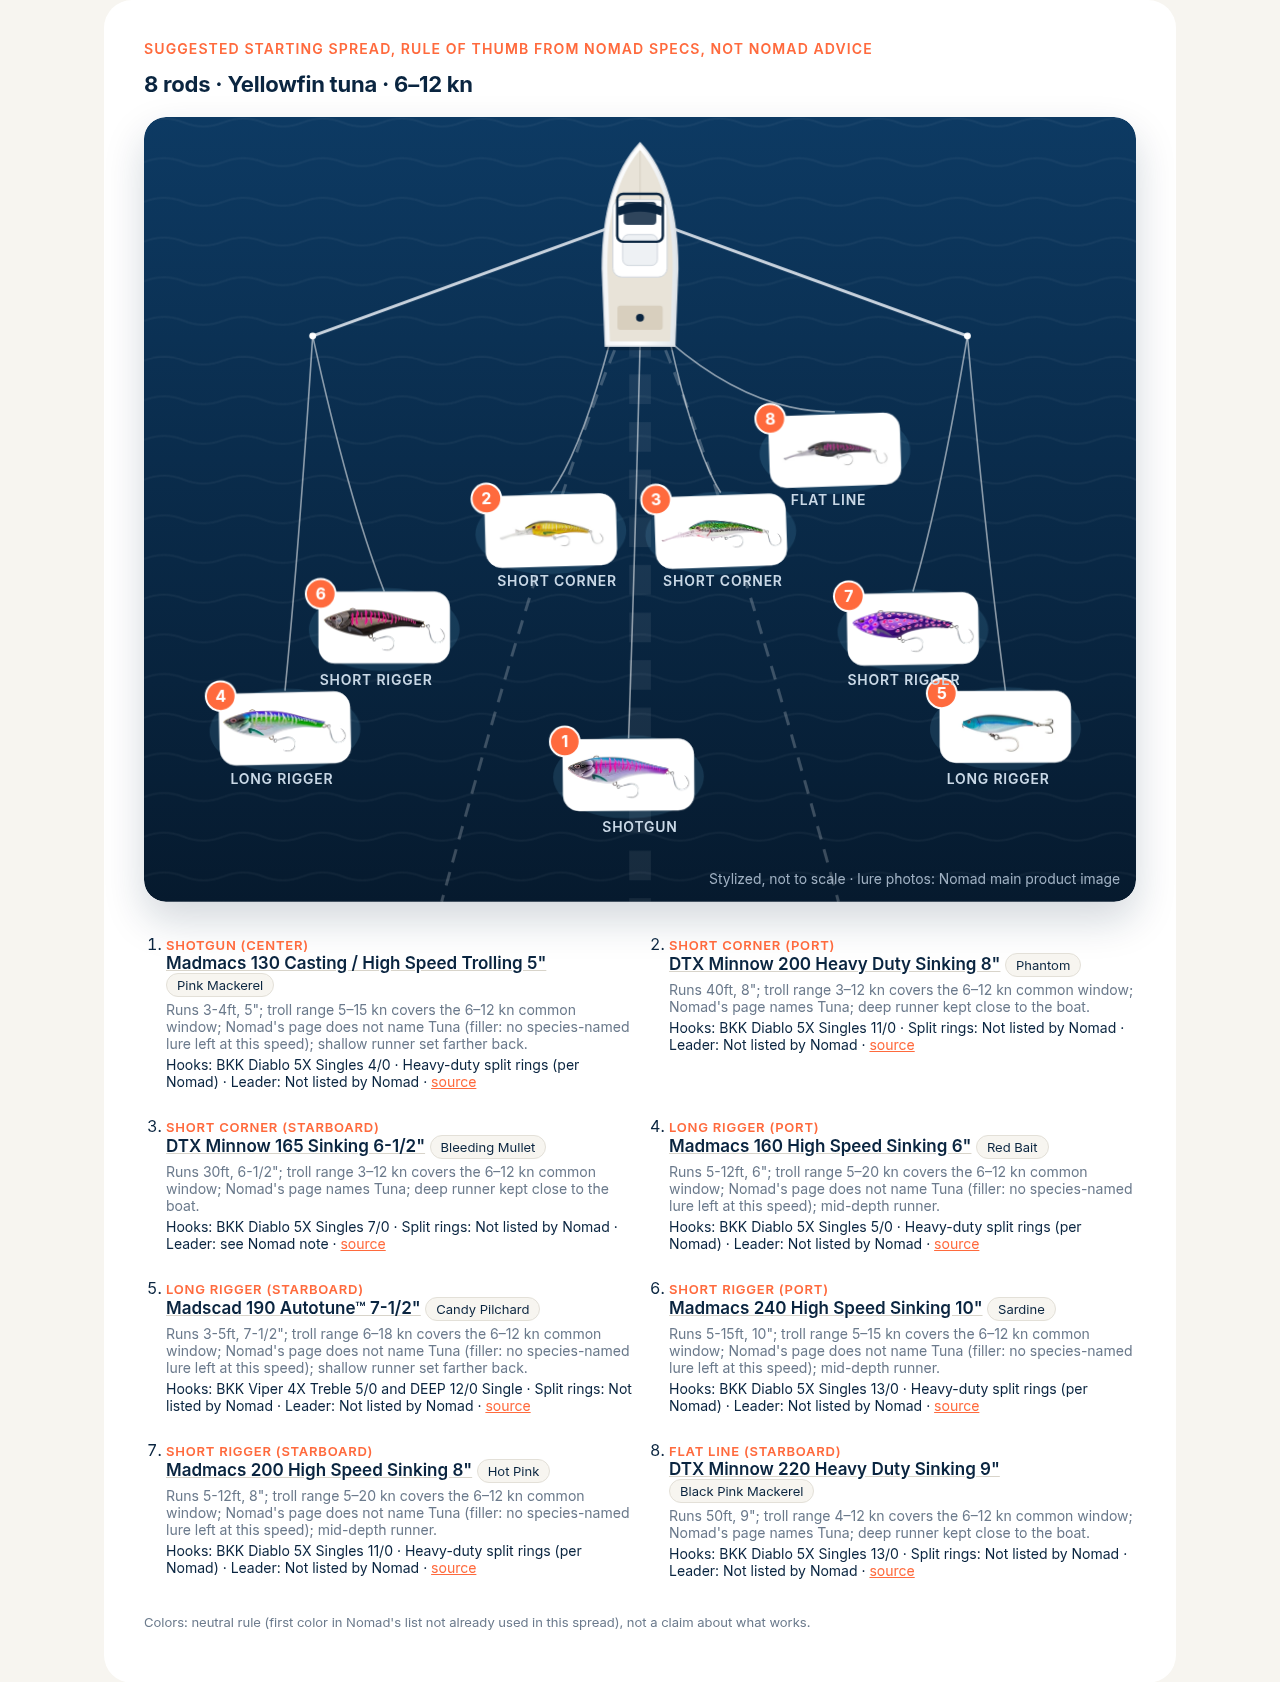
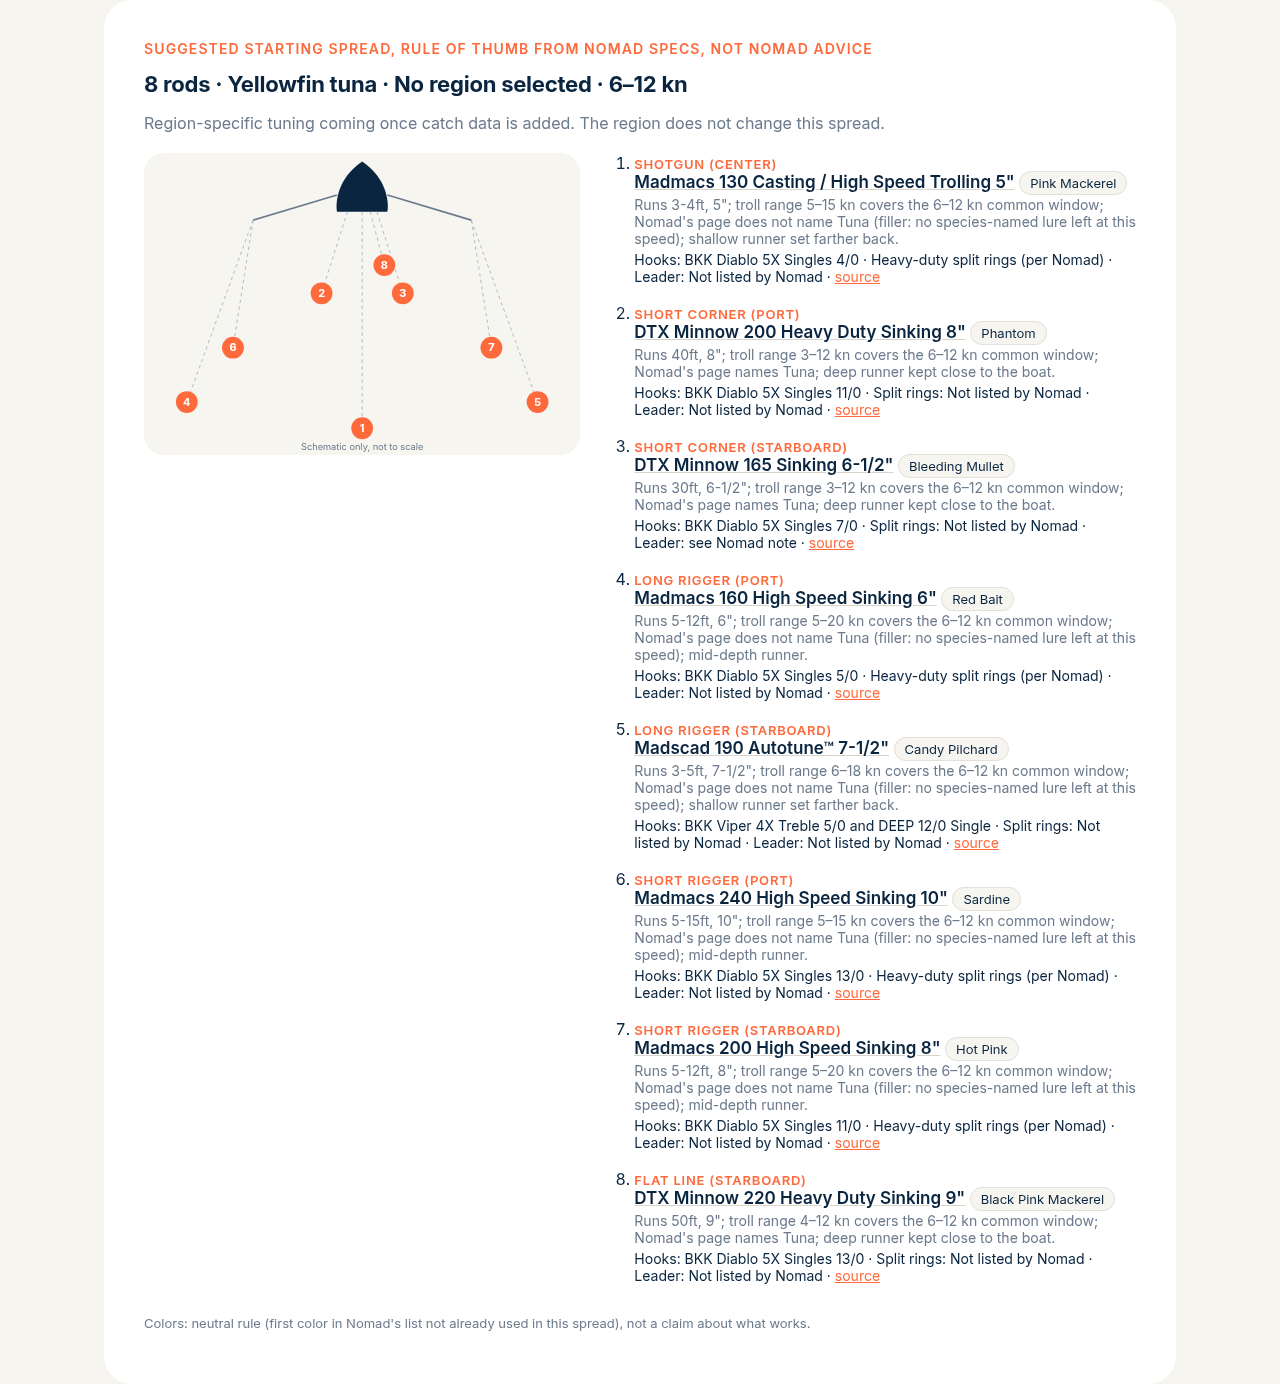
Spread builder: user-selected trolling speed (v6)

diff --git a/js/spread.js b/js/spread.js
@@ -8,12 +8,10 @@ const len=l=>{const m=(l.length||'').match(/^(\d+)(?:-(\d+)\/(\d+))?/);return m?
 // Positions in fixed fill order. x: -1 port … +1 starboard, back: 0 at transom … 1 farthest.
 const POS=[['Shotgun (center)',0,.95],['Short corner (port)',-.22,.28],['Short corner (starboard)',.22,.28],['Long rigger (port)',-.95,.82],
  ['Long rigger (starboard)',.95,.82],['Short rigger (port)',-.7,.55],['Short rigger (starboard)',.7,.55],['Flat line (starboard)',.5,.06]];
-function build(fish,n){const tag=FISH[fish],pool=L.map(l=>({l,s:spd(l),d:dep(l),z:len(l),sp:(l.target_species||[]).includes(tag)})).filter(x=>x.s&&x.d!=null);
- // Rule 1: common speed = integer knot covered by the most lures; ties -> more species-named lures -> lower speed.
- let best=null;for(let k=1;k<=25;k++){const c=pool.filter(x=>x.s[0]<=k&&k<=x.s[1]);if(!c.length)continue;
-  const sc=[Math.min(c.length,n),c.filter(x=>x.sp).length,c.length];
-  if(!best||sc[0]>best.sc[0]||(sc[0]==best.sc[0]&&(sc[1]>best.sc[1]||(sc[1]==best.sc[1]&&sc[2]>best.sc[2]))))best={k,c,sc};}
- const c=best.c,lo=Math.max(...c.map(x=>x.s[0])),hi=Math.min(...c.map(x=>x.s[1]));
+const SR=L.map(spd).filter(Boolean),SMIN=Math.min(...SR.map(r=>r[0])),SMAX=Math.max(...SR.map(r=>r[1]));
+function build(fish,n,k){const tag=FISH[fish],pool=L.map(l=>({l,s:spd(l),d:dep(l),z:len(l),sp:(l.target_species||[]).includes(tag)})).filter(x=>x.s&&x.d!=null);
+ // Rule 1: only lures whose Nomad trolling range includes the chosen speed k.
+ const c=pool.filter(x=>x.s[0]<=k&&k<=x.s[1]);if(!c.length)return {k,rods:[],count:0};
  // Rule 2: species-named lures first, then pick to spread running depth (alternate deepest/shallowest remaining), sizes as tie-break.
  const named=c.filter(x=>x.sp),other=c.filter(x=>!x.sp),order=[];
  for(const grp of [named,other]){const g=[...grp].sort((a,b)=>b.d-a.d||b.z-a.z);let t=1;while(g.length){order.push(t?g.shift():g.pop());t^=1;}}
@@ -23,11 +21,11 @@ function build(fish,n){const tag=FISH[fish],pool=L.map(l=>({l,s:spd(l),d:dep(l),
  const used=new Set(),rods=pos.map((q,j)=>{const x=picks[j];
   // Rule 5 (neutral, not a performance claim): first color in Nomad's list not yet used in this spread.
   const col=x.l.colors.find(c=>!used.has(c))||x.l.colors[j%x.l.colors.length];used.add(col);
-  const why=[`Runs ${x.l.running_depth}, ${x.l.length}`,`troll range ${x.s[0]}–${x.s[1]} kn covers the ${lo}–${hi} kn common window`,
+  const why=[`Runs ${x.l.running_depth}, ${x.l.length}`,`troll range ${x.s[0]}–${x.s[1]} kn includes your ${k} kn`,
    x.sp?`Nomad's page names ${tag}`:`Nomad's page does not name ${tag} (filler: no species-named lure left at this speed)`,
    x.d>=30?'deep runner kept close to the boat':x.d<=5?'shallow runner set farther back':'mid-depth runner'];
   return {i:q.i,pos:q.p,l:x.l,col,why:why.join('; ')+'.',sp:x.sp}}).sort((a,b)=>a.i-b.i);
- return {lo,hi,rods}}
+ return {k,rods,count:c.length}}
 // Stylized top-down boat + animated spread. Tiers: 1-2 center console, 3 sportfisher, 4-6 large sportfisher + outriggers, 7-8 game boat + tower.
 const RM=matchMedia('(prefers-reduced-motion: reduce)');
 function hull(cx,y,L,W){const r=W/2;return `M${cx},${y} C${cx+r*.9},${y+L*.18} ${cx+r},${y+L*.45} ${cx+r},${y+L*.62} L${cx+r*.92},${y+L} L${cx-r*.92},${y+L} L${cx-r},${y+L*.62} C${cx-r},${y+L*.45} ${cx-r*.9},${y+L*.18} ${cx},${y}Z`}
@@ -71,12 +69,13 @@ for(let i=1;i<=8;i++)$('#s-rods').insertAdjacentHTML('beforeend',`<option${i==4?
 const rigLine=l=>{const r=R[l.id]||{},bits=[`Hooks: ${l.hooks_rings||'Not listed by Nomad'}`];
  bits.push(r.split_rings?'Heavy-duty split rings (per Nomad)':'Split rings: Not listed by Nomad');bits.push('Leader: '+(r.leader?'see Nomad note':'Not listed by Nomad'));
  return esc(bits.join(' · '))+` · <a href="${esc(l.product_url)}" target="_blank" rel="noopener">source</a>`};
-function run(){const fish=$('#s-fish').value,n=+$('#s-rods').value,o=build(fish,n);window.lastSpread=o;
+function run(){const fish=$('#s-fish').value,n=+$('#s-rods').value,k=+$('#s-speed').value,o=build(fish,n,k);window.lastSpread=o;$('#s-speed-val').textContent=k+' kn';
+ if(!o.rods.length){$('#spread-out').innerHTML=`<p class="eyebrow">Suggested starting spread, rule of thumb from Nomad specs, not Nomad advice</p><h3 class="sp-h">No Nomad lure in this demo is rated for ${k} kn</h3><p class="muted">Trolling ranges in this demo run from ${SMIN} to ${SMAX} kn. Try another speed.</p>`;return}
  $('#spread-out').innerHTML=`<p class="eyebrow">Suggested starting spread, rule of thumb from Nomad specs, not Nomad advice</p>
- <h3 class="sp-h">${n} rod${n>1?'s':''} · ${esc(fish)} · ${o.lo}–${o.hi} kn</h3>
+ <h3 class="sp-h">${n} rod${n>1?'s':''} · ${esc(fish)} · ${k} kn · ${o.count} of ${L.length} lures rated for this speed</h3>
  <div class="sp-grid">${boat(o.rods)}<ol class="rods">${o.rods.map(r=>`<li><div class="rod-pos">${esc(r.pos[0])}</div>
  <button class="rod-lure" data-id="${r.l.id}">${esc(r.l.model)}</button> <span class="chip">${esc(r.col)}</span>
  <p class="muted">${esc(r.why)}</p><p class="rig">${rigLine(r.l)}</p></li>`).join('')}</ol></div>
  <p class="muted small">Colors: neutral rule (first color in Nomad's list not already used in this spread), not a claim about what works.</p>`;
  document.querySelectorAll('.rod-lure').forEach(b=>b.onclick=()=>window.openLure(b.dataset.id));}
-$('#s-fish').onchange=$('#s-rods').onchange=run;window.buildSpread=build;run();})();
+$('#s-fish').onchange=$('#s-rods').onchange=run;$('#s-speed').oninput=run;window.buildSpread=build;run();})();

diff --git a/index.html b/index.html
@@ -1,5 +1,5 @@
 <!doctype html><html lang="en"><head><meta charset="utf-8"><meta name="viewport" content="width=device-width,initial-scale=1">
-<title>Tackle Box — Nomad offshore trolling lures</title><link rel="icon" href="data:,"><link rel="stylesheet" href="css/style.css?v=5"></head><body>
+<title>Tackle Box — Nomad offshore trolling lures</title><link rel="icon" href="data:,"><link rel="stylesheet" href="css/style.css?v=6"></head><body>
 <header class="hero"><div class="wrap"><p class="eyebrow">Tackle Box</p><h1>Offshore trolling,<br>at a glance.</h1>
 <p class="lede">Nine Nomad Design offshore trolling lures from nomadtackle.com — specs, colors and speeds in one place.</p></div></header>
 <main class="wrap">
@@ -10,12 +10,12 @@
 </section>
 <section id="grid" class="grid"></section>
 <section class="spread" id="spread"><p class="eyebrow">Spread builder</p><h2>Build a starting spread</h2>
-<p class="muted">Pick your fish and choose how many rods you can run.</p>
-<div class="filters sp-controls"><label>Target fish<select id="s-fish"></select></label><label>Rods available<select id="s-rods"></select></label></div>
+<p class="muted">Pick your fish, how many rods you can run, and your trolling speed.</p>
+<div class="filters sp-controls"><label>Target fish<select id="s-fish"></select></label><label>Rods available<select id="s-rods"></select></label><label>Trolling speed <b id="s-speed-val">8 kn</b><input type="range" id="s-speed" min="2" max="20" step="1" value="8" aria-label="Trolling speed in knots"></label></div>
 <div id="spread-out" class="spread-out"></div></section>
 <section class="hot"><p class="eyebrow">Hottest colors</p><h2>Hand-counted from Nomad catch posts — coming soon</h2>
 <p class="muted">This section is intentionally empty. No color rankings are shown until catch posts have been counted by hand.</p><div id="hot-list"></div></section>
 </main>
 <div id="detail" class="detail" hidden><div class="sheet" role="dialog" aria-modal="true"><button class="close" aria-label="Close">×</button><div id="detail-body"></div></div></div>
 <footer><div class="wrap">Unofficial demo. Product data from nomadtackle.com, <span id="fdate"></span>. Not affiliated with Nomad Design.</div></footer>
-<script src="js/data.js?v=5"></script><script src="js/rigging.js?v=5"></script><script src="js/app.js?v=5"></script><script src="js/spread.js?v=5"></script></body></html>
+<script src="js/data.js?v=6"></script><script src="js/rigging.js?v=6"></script><script src="js/app.js?v=6"></script><script src="js/spread.js?v=6"></script></body></html>

diff --git a/css/style.css b/css/style.css
@@ -50,3 +50,5 @@ footer{background:var(--deep);color:rgba(247,245,240,.7);padding:40px 0;font-siz
 .sp-grid{grid-template-columns:1fr}.rods{display:grid;grid-template-columns:1fr 1fr;gap:4px 36px}.boatsvg .lab{font-size:14px}.boatsvg .fl{stroke-width:1.6}
 @media(max-width:700px){.rods{grid-template-columns:1fr}}
 .chip{white-space:nowrap;display:inline-block}
+input[type=range]{accent-color:var(--accent);width:240px;height:46px;margin:0}.sp-controls label b{color:var(--ocean)}
+@media(max-width:700px){input[type=range]{width:100%}}
